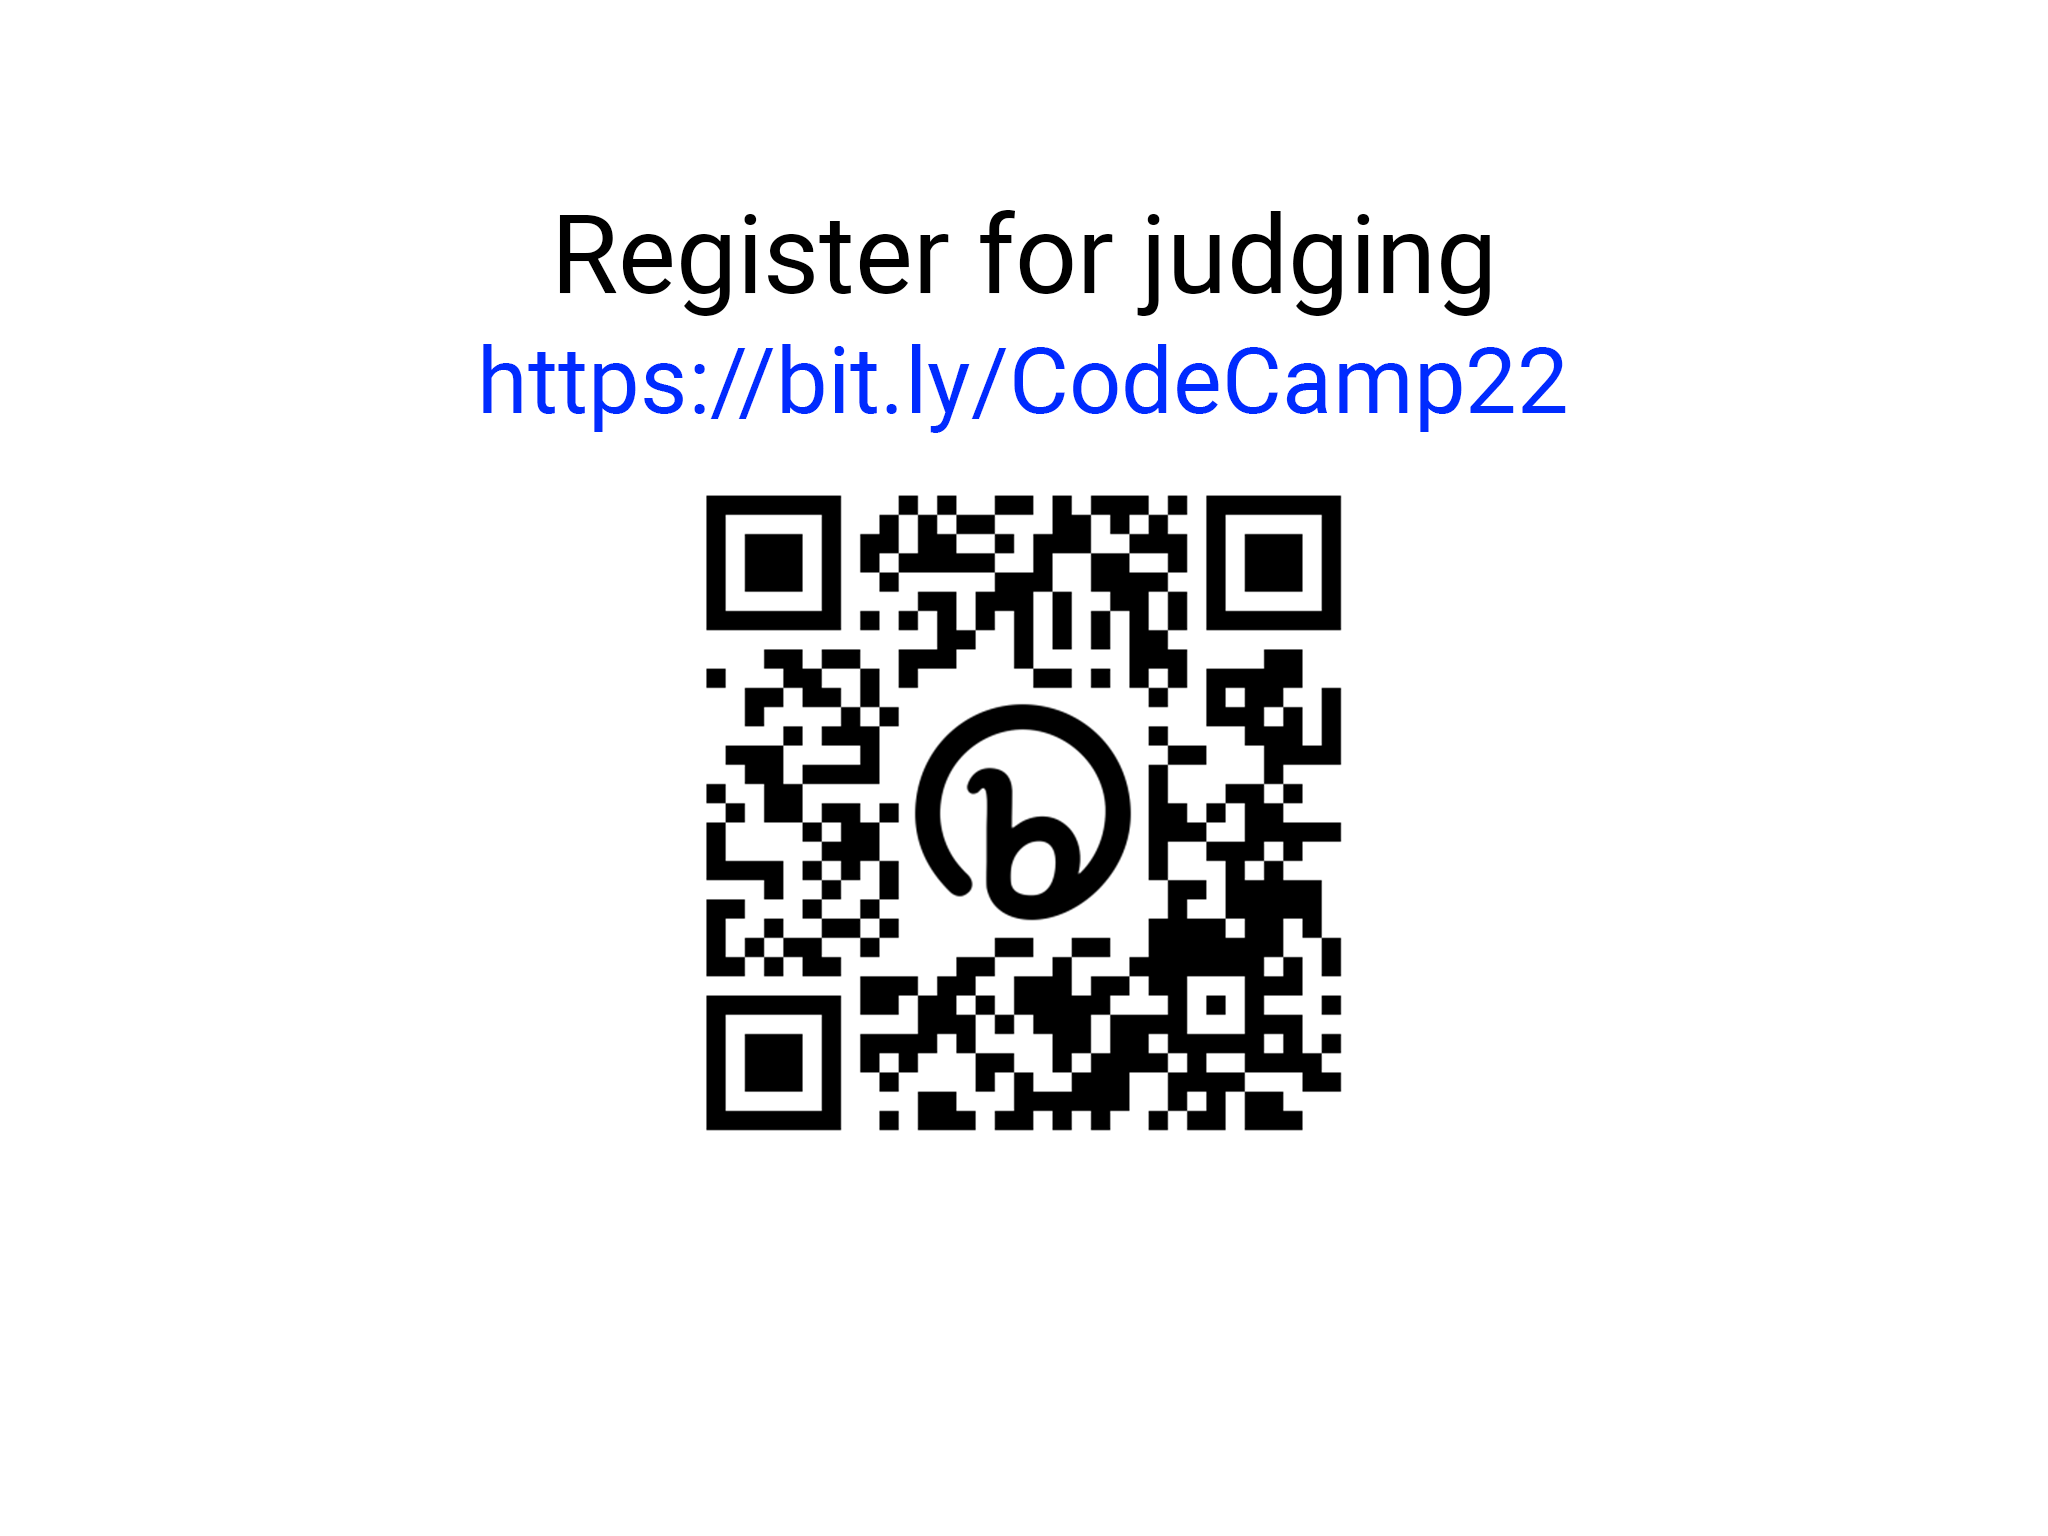
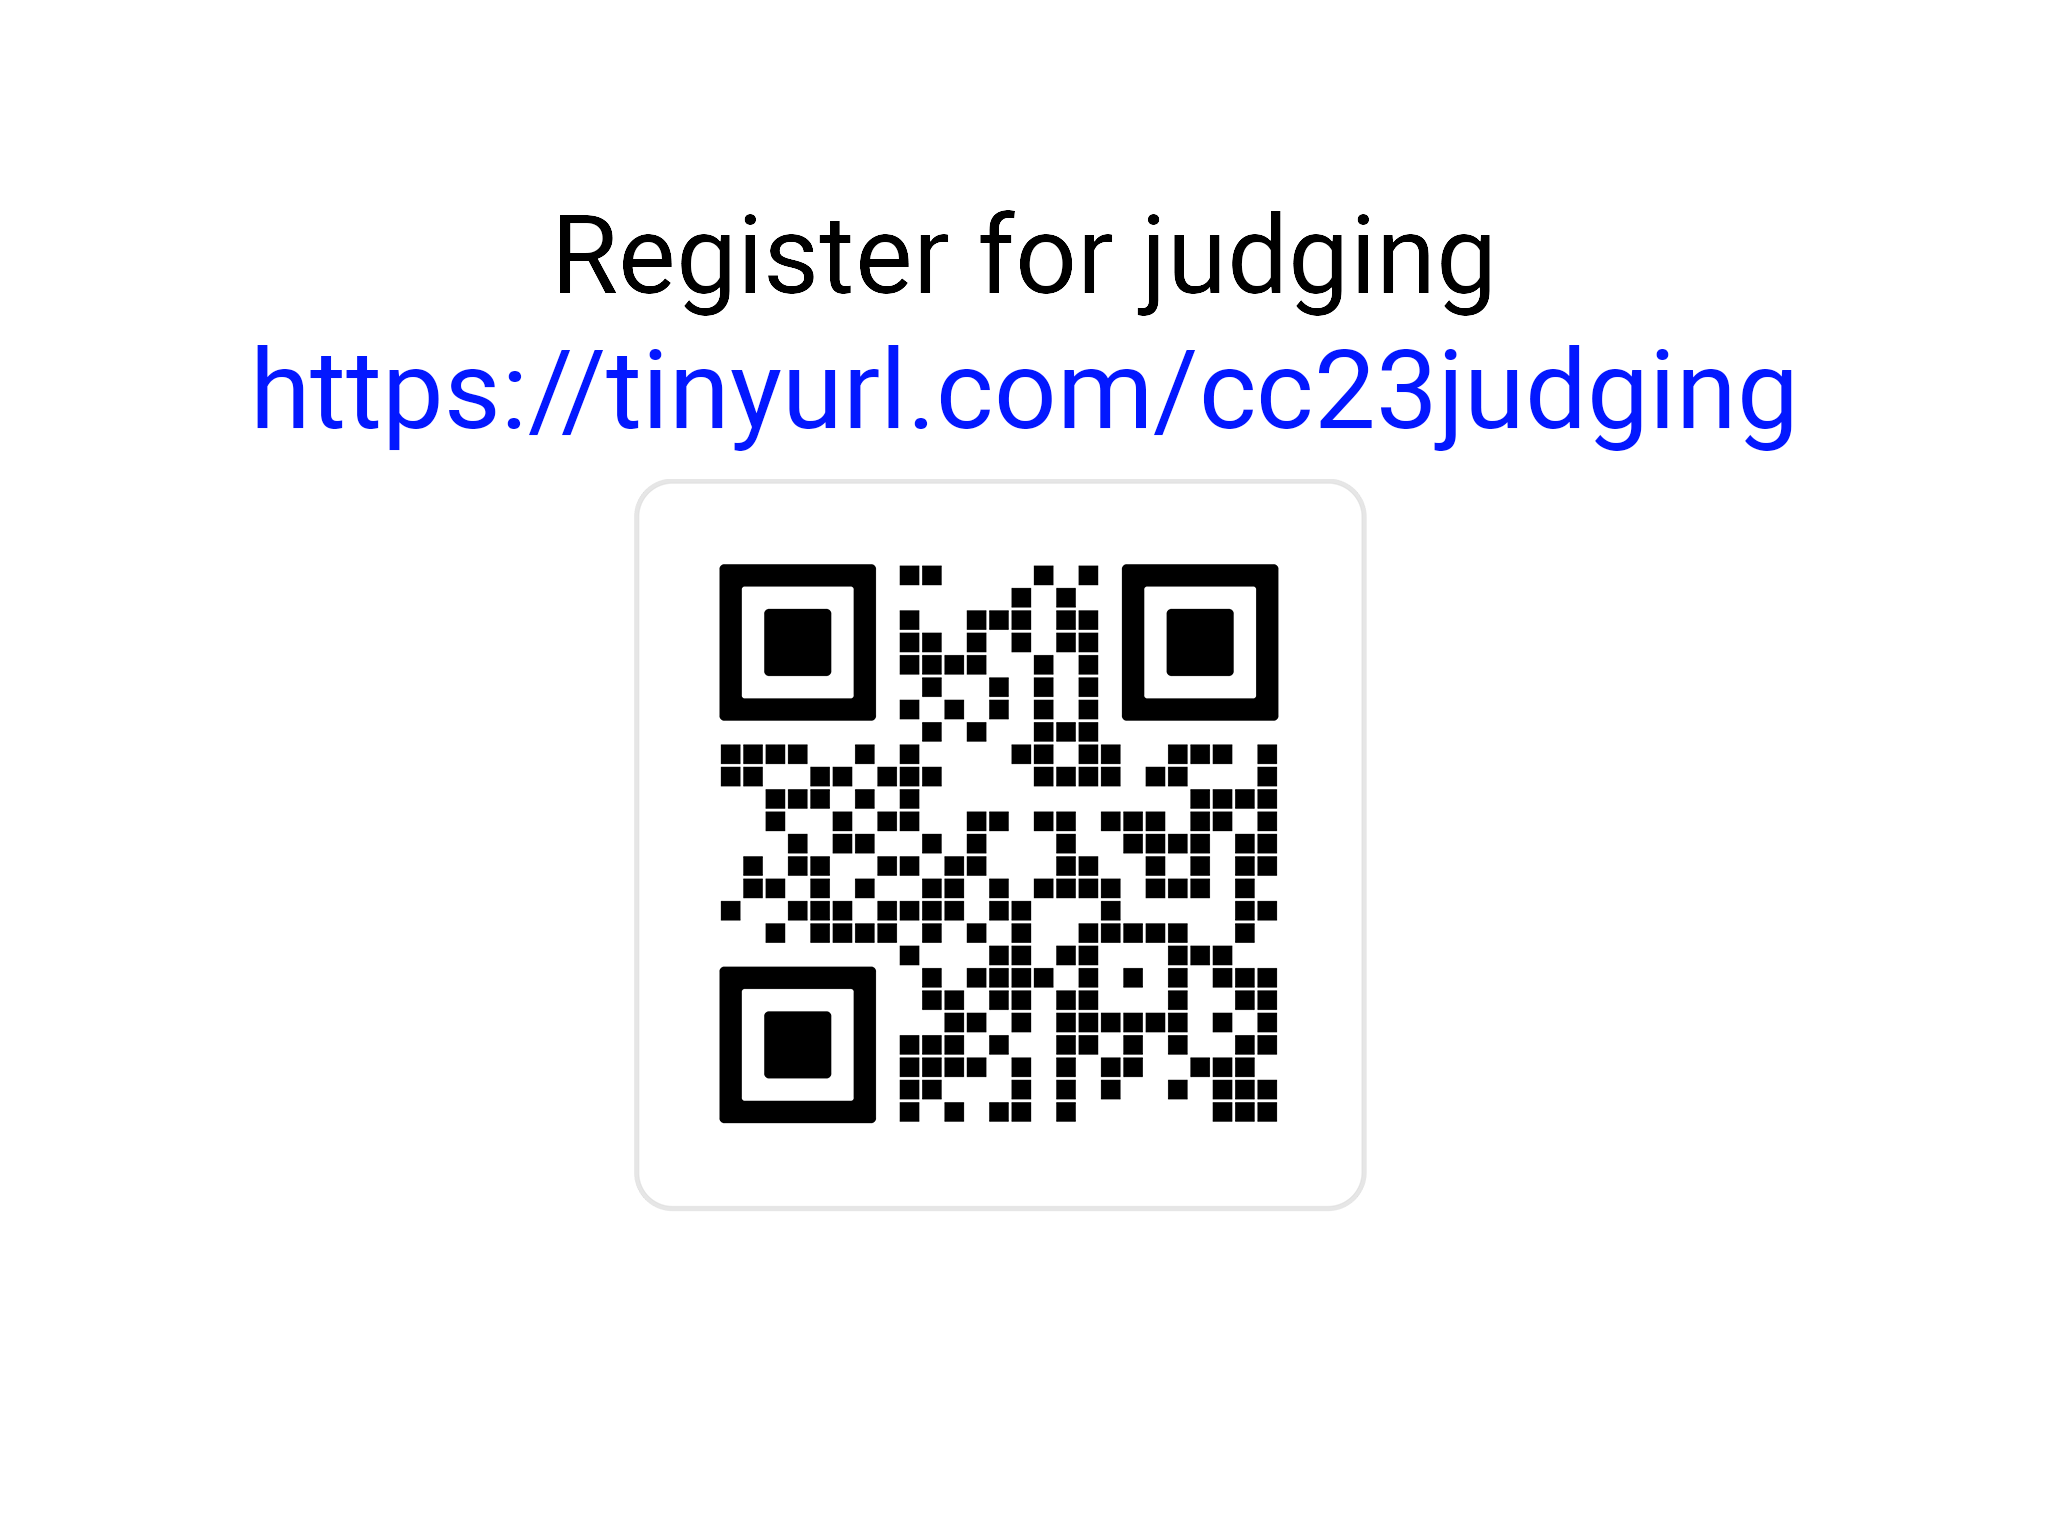
judging

Changed region(s): [[0.125, 0.2188, 0.875, 0.75], [0.3438, 0.7812, 0.6562, 0.8125]]

diff --git a/app/timer.php b/app/timer.php
@@ -81,10 +81,10 @@ $thours = $left / 3600;
       <?php if ($thours >= 1): ?><img src="images/codecamp.png" data-time="20000" alt="">
 
       <?php
-//        if ($thours >= 5 and $thours <= 24) {
-//          echo '<img src="images/judging-register.png" alt="" data-time="60000">';
-//          echo "\n\t  ";
-//        }
+        if ($thours >= 5 and $thours <= 24) {
+          echo '<img src="images/judging-register.png" alt="" data-time="60000">';
+          echo "\n\t  ";
+        }
 
         $photos = [];
 
